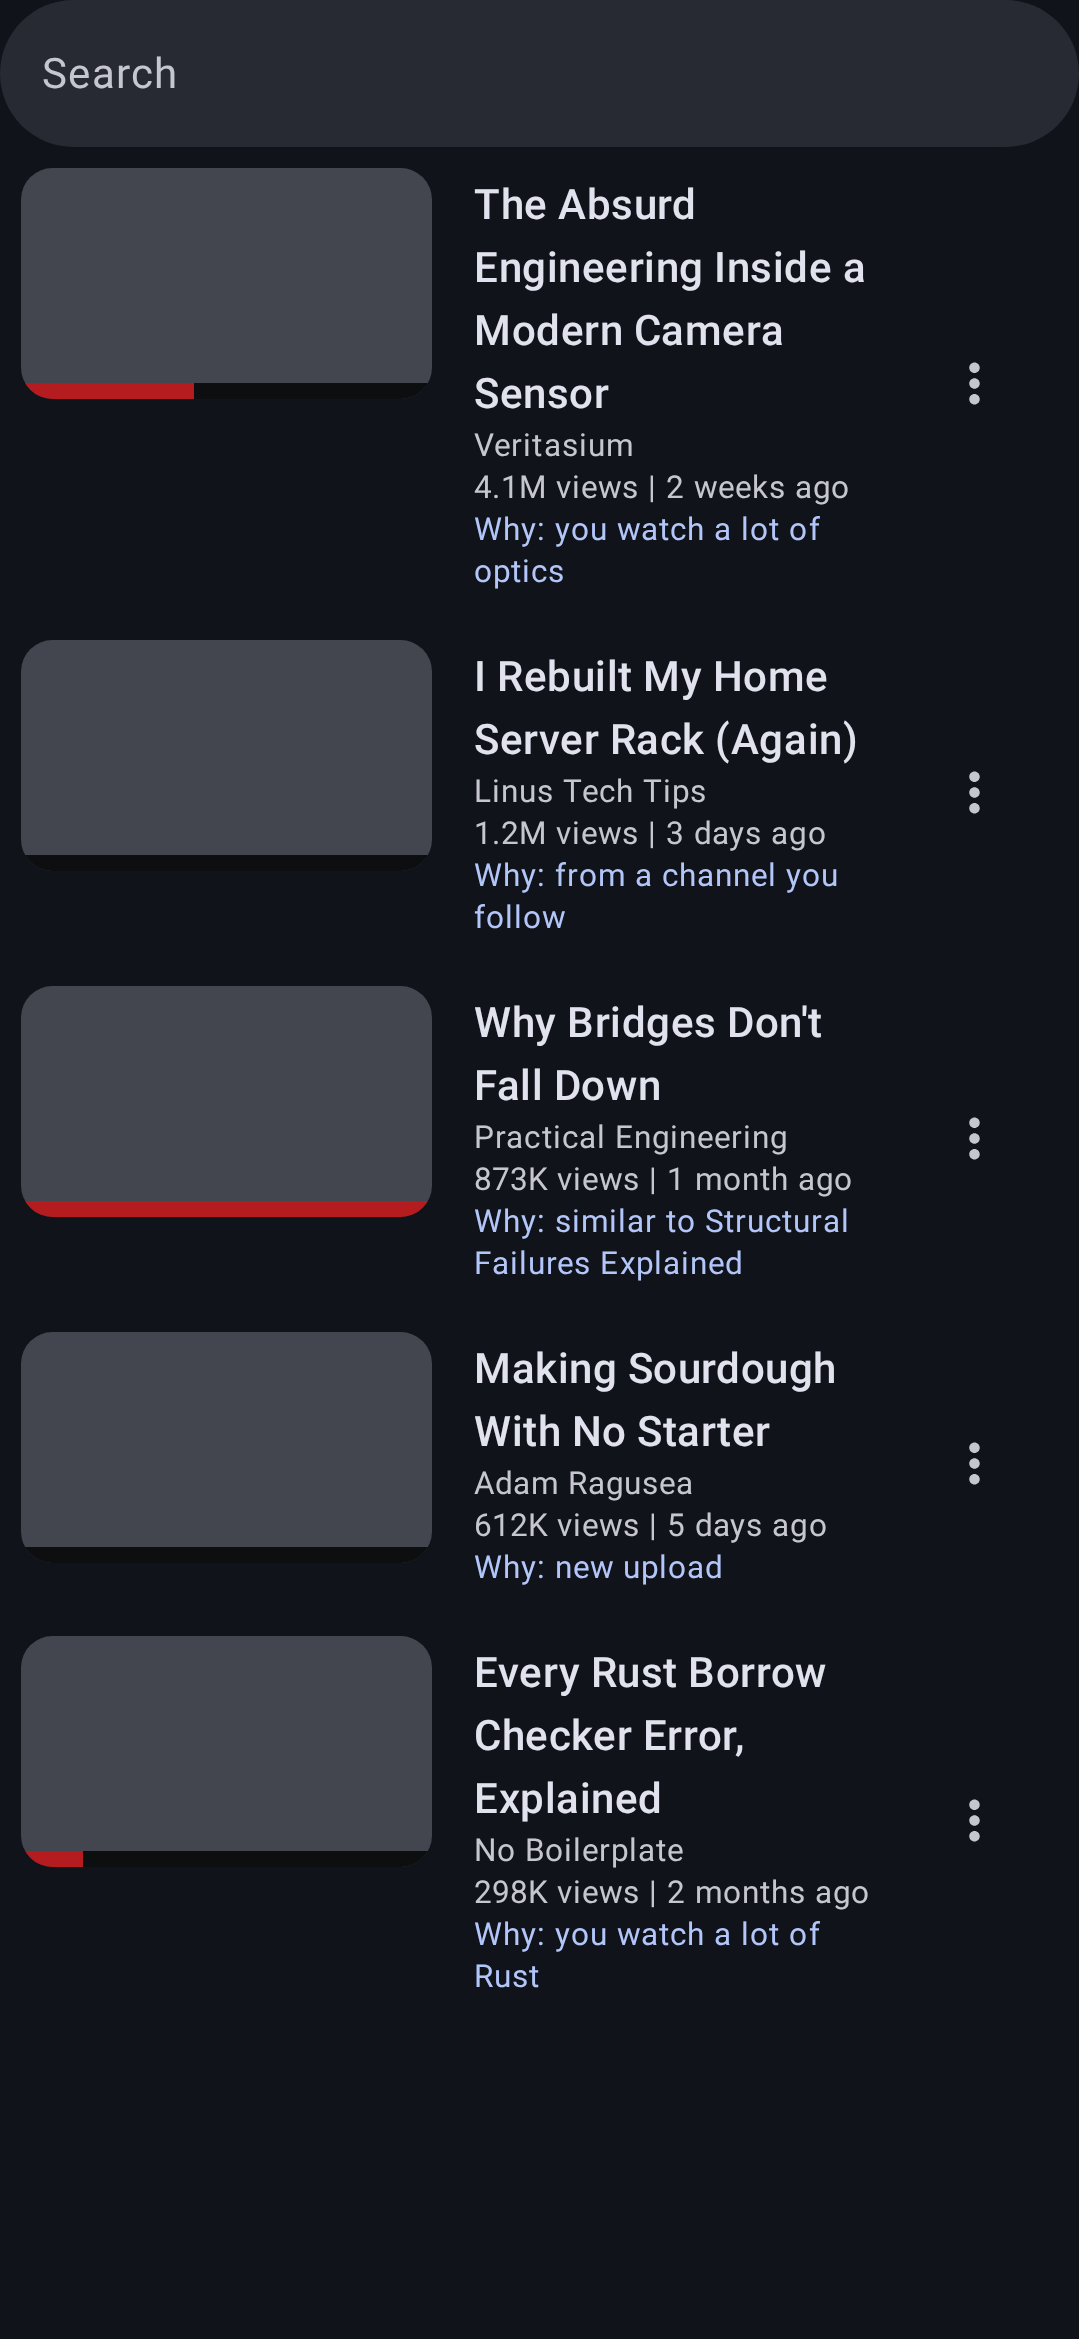
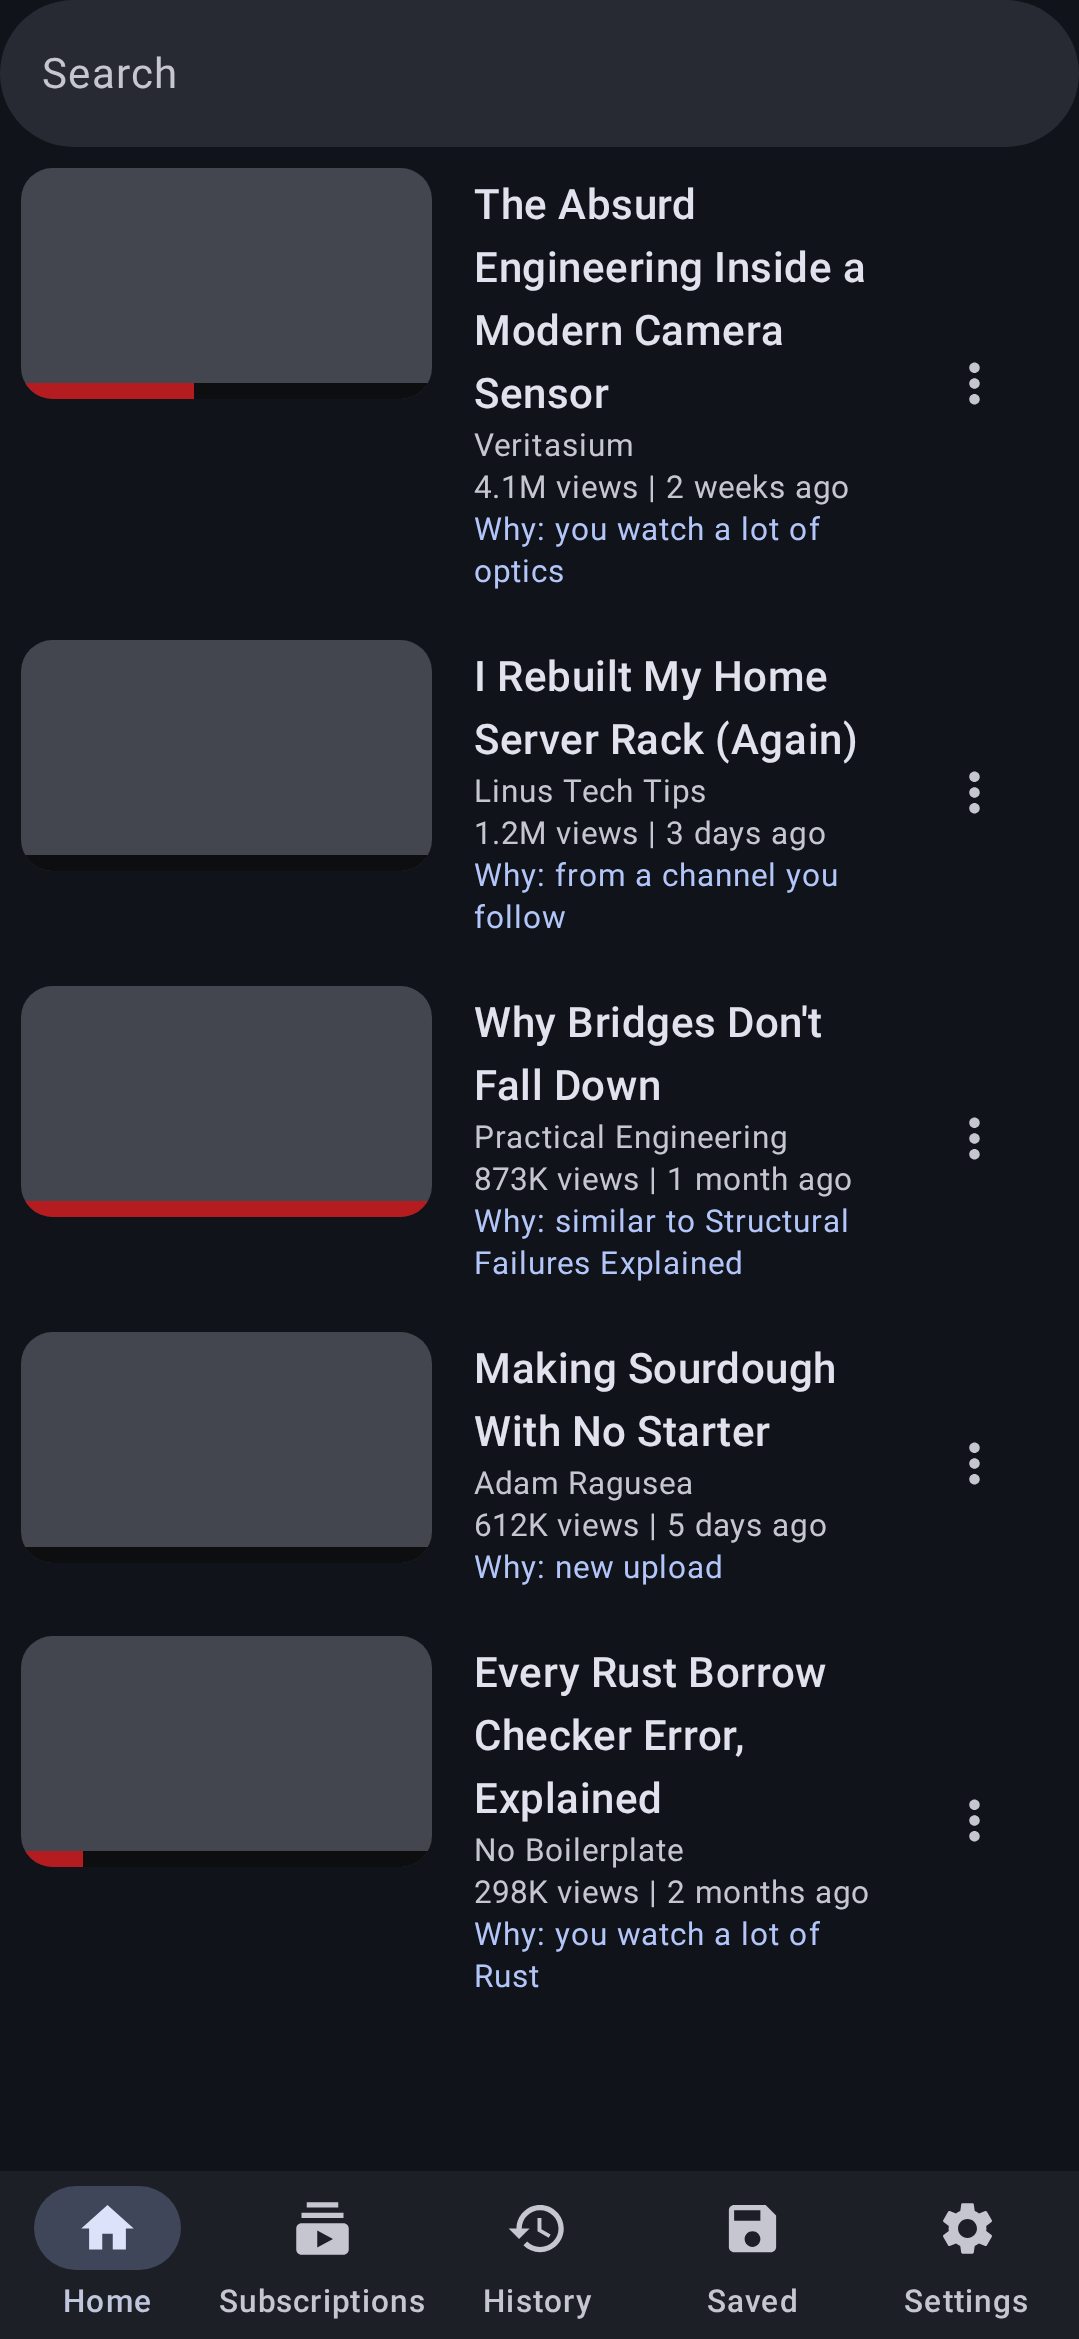
youpipe+office: tab chrome and outline drawer in screenshots

diff --git a/youpipe/src/screenshotTest/kotlin/com/vayunmathur/youpipe/ui/MetadataPreviews.kt b/youpipe/src/screenshotTest/kotlin/com/vayunmathur/youpipe/ui/MetadataPreviews.kt
@@ -3,13 +3,23 @@ package com.vayunmathur.youpipe.ui
 import androidx.compose.foundation.background
 import androidx.compose.foundation.layout.Box
 import androidx.compose.foundation.layout.aspectRatio
+import androidx.compose.foundation.layout.fillMaxSize
 import androidx.compose.foundation.layout.fillMaxWidth
+import androidx.compose.foundation.pager.rememberPagerState
 import androidx.compose.runtime.Composable
 import androidx.compose.ui.Modifier
 import androidx.compose.ui.graphics.Color
 import androidx.compose.ui.tooling.preview.Preview
 import com.android.tools.screenshot.PreviewTest
 import com.vayunmathur.library.ui.DynamicTheme
+import com.vayunmathur.library.ui.IconHistory
+import com.vayunmathur.library.ui.IconHome
+import com.vayunmathur.library.ui.IconSave
+import com.vayunmathur.library.ui.IconSettings
+import com.vayunmathur.library.ui.IconSubscriptions
+import com.vayunmathur.library.ui.PagerTab
+import com.vayunmathur.library.ui.TabStyle
+import com.vayunmathur.library.ui.TabbedPagerScaffold
 import com.vayunmathur.youpipe.util.SearchActions
 import com.vayunmathur.youpipe.util.SearchUiState
 import com.vayunmathur.youpipe.util.SubscriptionFeedActions
@@ -50,53 +60,7 @@ class MetadataPreviews {
     @Preview(name = "1-home", device = PHONE, group = "phone", showSystemUi = true)
     @Composable
     fun Preview1Home() {
-        DynamicTheme(darkTheme = true) {
-            SearchScreen(
-                state = SearchUiState(
-                    recommendations = listOf(
-                        VideoRowState(
-                            videoID = 1,
-                            title = "The Absurd Engineering Inside a Modern Camera Sensor",
-                            author = "Veritasium",
-                            stats = "4.1M views | 2 weeks ago",
-                            reason = "you watch a lot of optics",
-                            percentWatched = 0.42f,
-                        ),
-                        VideoRowState(
-                            videoID = 2,
-                            title = "I Rebuilt My Home Server Rack (Again)",
-                            author = "Linus Tech Tips",
-                            stats = "1.2M views | 3 days ago",
-                            reason = "from a channel you follow",
-                        ),
-                        VideoRowState(
-                            videoID = 3,
-                            title = "Why Bridges Don't Fall Down",
-                            author = "Practical Engineering",
-                            stats = "873K views | 1 month ago",
-                            reason = "similar to Structural Failures Explained",
-                            percentWatched = 1f,
-                        ),
-                        VideoRowState(
-                            videoID = 4,
-                            title = "Making Sourdough With No Starter",
-                            author = "Adam Ragusea",
-                            stats = "612K views | 5 days ago",
-                            reason = "new upload",
-                        ),
-                        VideoRowState(
-                            videoID = 5,
-                            title = "Every Rust Borrow Checker Error, Explained",
-                            author = "No Boilerplate",
-                            stats = "298K views | 2 months ago",
-                            reason = "you watch a lot of Rust",
-                            percentWatched = 0.15f,
-                        ),
-                    ),
-                ),
-                actions = SearchActions.Noop,
-            )
-        }
+        ChromePreview(selectedTab = 0)
     }
 
     @PreviewTest
@@ -131,8 +95,15 @@ class MetadataPreviews {
     @Composable
     fun Preview4Subscriptions() {
         DynamicTheme(darkTheme = true) {
-            SubscriptionVideosScreen(
-                state = SubscriptionFeedUiState(
+            SubscriptionFeedContent()
+        }
+    }
+
+    /** The Subscriptions tab body (Preview4), factored out so [ChromePreview] can reuse it. */
+    @Composable
+    private fun SubscriptionFeedContent() {
+        SubscriptionVideosScreen(
+            state = SubscriptionFeedUiState(
                     videos = listOf(
                         VideoRowState(
                             videoID = 11,
@@ -170,7 +141,6 @@ class MetadataPreviews {
                 ),
                 actions = SubscriptionFeedActions.Noop,
             )
-        }
     }
 
     @PreviewTest
@@ -267,6 +237,84 @@ class MetadataPreviews {
                     ),
                 ),
                 actions = SubscriptionFeedActions.Noop,
+            )
+        }
+    }
+
+    /** The Home tab body, factored out so [ChromePreview] can host it behind the real tabs. */
+    @Composable
+    private fun HomeContent() {
+        SearchScreen(
+            state = SearchUiState(
+                recommendations = listOf(
+                    VideoRowState(
+                        videoID = 1,
+                        title = "The Absurd Engineering Inside a Modern Camera Sensor",
+                        author = "Veritasium",
+                        stats = "4.1M views | 2 weeks ago",
+                        reason = "you watch a lot of optics",
+                        percentWatched = 0.42f,
+                    ),
+                    VideoRowState(
+                        videoID = 2,
+                        title = "I Rebuilt My Home Server Rack (Again)",
+                        author = "Linus Tech Tips",
+                        stats = "1.2M views | 3 days ago",
+                        reason = "from a channel you follow",
+                    ),
+                    VideoRowState(
+                        videoID = 3,
+                        title = "Why Bridges Don't Fall Down",
+                        author = "Practical Engineering",
+                        stats = "873K views | 1 month ago",
+                        reason = "similar to Structural Failures Explained",
+                        percentWatched = 1f,
+                    ),
+                    VideoRowState(
+                        videoID = 4,
+                        title = "Making Sourdough With No Starter",
+                        author = "Adam Ragusea",
+                        stats = "612K views | 5 days ago",
+                        reason = "new upload",
+                    ),
+                    VideoRowState(
+                        videoID = 5,
+                        title = "Every Rust Borrow Checker Error, Explained",
+                        author = "No Boilerplate",
+                        stats = "298K views | 2 months ago",
+                        reason = "you watch a lot of Rust",
+                        percentWatched = 0.15f,
+                    ),
+                ),
+            ),
+            actions = SearchActions.Noop,
+        )
+    }
+
+    /**
+     * The app's real tab chrome around the home content: the same five
+     * [PagerTab]s `YouPipeTabs` in MainActivity declares, in the same
+     * [TabbedPagerScaffold] with [TabStyle.BottomNav]. History/Saved/Settings
+     * take their ViewModels directly, so those entries show an empty page
+     * (never visible — the shot stays on the selected tab).
+     */
+    @Composable
+    private fun ChromePreview(selectedTab: Int) {
+        DynamicTheme(darkTheme = true) {
+            val tabs = listOf(
+                PagerTab("Home", { IconHome() }) { HomeContent() },
+                PagerTab("Subscriptions", { IconSubscriptions() }) { SubscriptionFeedContent() },
+                // ViewModel-coupled: empty placeholder, never visible.
+                PagerTab("History", { IconHistory() }) { Box(Modifier.fillMaxSize()) },
+                // ViewModel-coupled: empty placeholder, never visible.
+                PagerTab("Saved", { IconSave() }) { Box(Modifier.fillMaxSize()) },
+                // ViewModel-coupled: empty placeholder, never visible.
+                PagerTab("Settings", { IconSettings() }) { Box(Modifier.fillMaxSize()) },
+            )
+            TabbedPagerScaffold(
+                tabs = tabs,
+                pagerState = rememberPagerState(initialPage = selectedTab, pageCount = { tabs.size }),
+                tabStyle = TabStyle.BottomNav,
             )
         }
     }

diff --git a/office/src/screenshotTest/kotlin/com/vayunmathur/office/ui/MetadataPreviews.kt b/office/src/screenshotTest/kotlin/com/vayunmathur/office/ui/MetadataPreviews.kt
@@ -2,20 +2,26 @@ package com.vayunmathur.office.ui
 
 import androidx.compose.foundation.layout.Box
 import androidx.compose.foundation.layout.fillMaxSize
+import androidx.compose.foundation.lazy.rememberLazyListState
 import androidx.compose.foundation.pager.rememberPagerState
 import androidx.compose.runtime.Composable
+import androidx.compose.runtime.remember
+import androidx.compose.runtime.rememberCoroutineScope
 import androidx.compose.ui.Modifier
 import androidx.compose.ui.text.style.TextAlign
 import androidx.compose.ui.tooling.preview.Preview
 import com.android.tools.screenshot.PreviewTest
+import com.vayunmathur.library.ui.DrawerValue
 import com.vayunmathur.library.ui.DynamicTheme
 import com.vayunmathur.library.ui.IconDownload
 import com.vayunmathur.library.ui.IconHome
+import com.vayunmathur.library.ui.ModalNavigationDrawer
 import com.vayunmathur.library.ui.PagerTab
 import com.vayunmathur.library.ui.TabStyle
 import com.vayunmathur.library.ui.TabbedPagerScaffold
 import com.vayunmathur.library.ui.MaterialTheme
 import com.vayunmathur.library.ui.Surface
+import com.vayunmathur.library.ui.rememberDrawerState
 import com.vayunmathur.library.ui.odf.OdfCell
 import com.vayunmathur.library.ui.odf.OdfDocument
 import com.vayunmathur.library.ui.odf.OdfFrame
@@ -26,6 +32,8 @@ import com.vayunmathur.library.ui.odf.OdfSlide
 import com.vayunmathur.library.ui.odf.OdfSlideElement
 import com.vayunmathur.library.ui.odf.OdfSpan
 import com.vayunmathur.library.ui.odf.ParagraphStyle
+import com.vayunmathur.office.DocumentChrome
+import com.vayunmathur.office.DrawerOutline
 import com.vayunmathur.office.HomeScreen
 import com.vayunmathur.office.OfficeLightTheme
 
@@ -247,6 +255,48 @@ class MetadataPreviews {
                 outline = { TextDocumentView(doc = SampleTextDocument) },
                 document = { TextDocumentView(doc = SampleTextDocument) },
             )
+        }
+    }
+
+    @PreviewTest
+    @Preview(name = "6-outline-drawer", device = PHONE, group = "phone", showSystemUi = true)
+    @Composable
+    fun Preview6OutlineDrawer() {
+        Paper {
+            val drawerState = rememberDrawerState(DrawerValue.Open)
+            val listState = rememberLazyListState()
+            val scope = rememberCoroutineScope()
+            val chrome = remember(SampleTextDocument) {
+                DocumentChrome(
+                    isEditMode = false,
+                    hasUnsavedChanges = false,
+                    isOnline = false,
+                    onlineEnabled = false,
+                    isSaving = false,
+                    canUndo = false,
+                    canRedo = false,
+                    nightMode = false,
+                    documentDarkMode = false,
+                    isTextDoc = true,
+                    isSpreadsheet = false,
+                    isPresentation = false,
+                    canEdit = false,
+                    saveAsName = "sample1.odt",
+                    headings = extractHeadings(SampleTextDocument),
+                    wordCount = 0,
+                    charCount = 0,
+                    readingTime = 0,
+                    bookmarks = emptyList(),
+                )
+            }
+            ModalNavigationDrawer(
+                drawerState = drawerState,
+                gesturesEnabled = chrome.isTextDoc &&
+                    (chrome.headings.isNotEmpty() || chrome.bookmarks.isNotEmpty()),
+                drawerContent = { DrawerOutline(chrome, listState, drawerState, scope) },
+            ) {
+                TextDocumentView(doc = SampleTextDocument, listState = listState)
+            }
         }
     }
 }
